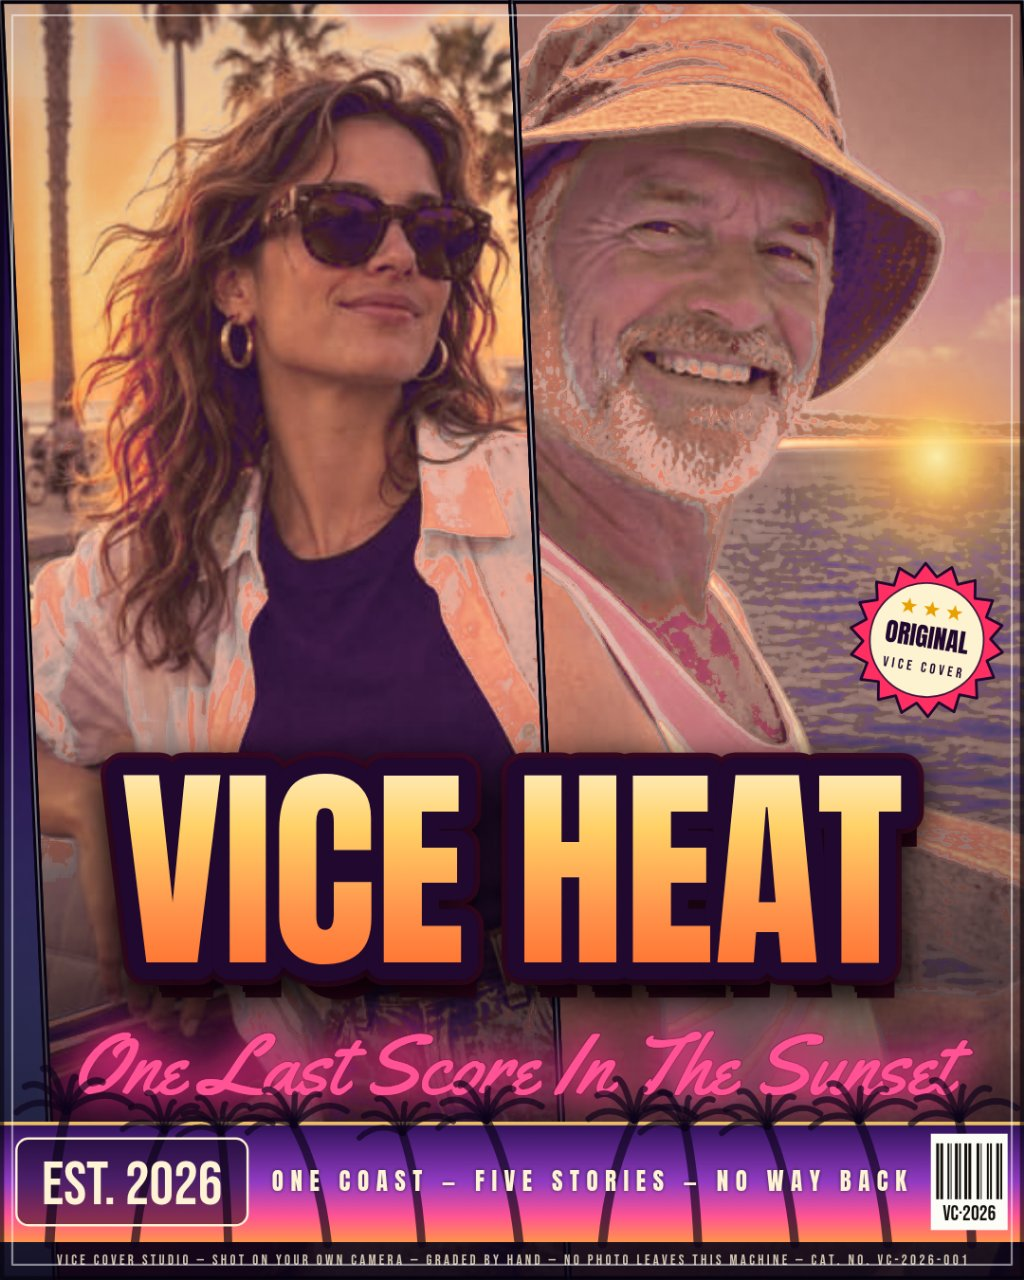
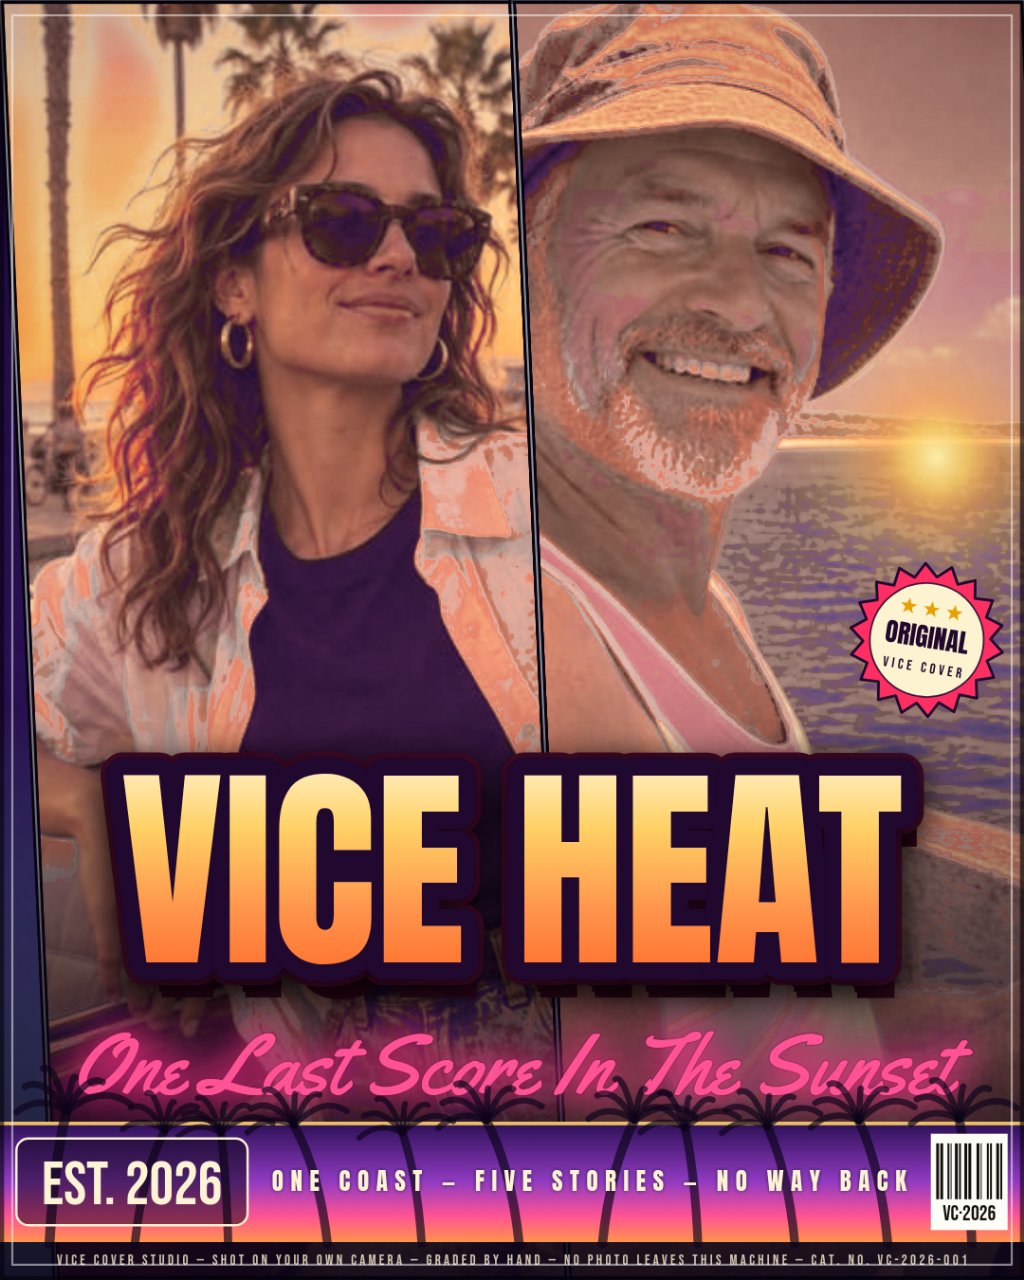
Round 23: skin-safe grade ramp for the Duo portrait

diff --git a/app/src/poster.js b/app/src/poster.js
@@ -138,7 +138,35 @@ export const GRADES = {
     // green sits above their blue everywhere — so no other subject's
     // skin moves; saturated props (the red dress, the convertible)
     // fall outside the saturation band.
-    magentaTame: { angle: 0.85, target: 18 },
+    // Round 23 (`notch`): the tame's two fades manufacture the last
+    // defect. Measured stage by stage on the Duo pier panel, the ramp
+    // mix drags the fisherman's skin to hue 300–360 (68–89% of his
+    // saturated skin pixels at 330+). The tame rotates the moderate-
+    // saturation part home, but two populations escape: skin the
+    // detectors could not moderate takes the full saturation lift to
+    // 0.62–0.78, past the tame's saturation fade, and is only half-
+    // rotated in transit into a pile at 354–358; and the sector's own
+    // 350–356 fade strands the rest in the same pile — past the fade,
+    // short of red — where the fringe tame cannot follow (its
+    // neighbourhood gate stands down on smooth skin fields, by
+    // design). In the round-22 render, 80–99% of every skin region's
+    // surviving magenta-sector pixels sit in that pile: the mottle
+    // the micro judge failed on the portrait's face, neck and chest.
+    // The notch arm is the tame's skin override: for pixels the
+    // SOURCE detector read as skin it restores the tame's full sector
+    // weight (rising 280–305 like the tame itself, no 350–356 fade)
+    // under a wider saturation band (fade 0.62–0.78), still fading
+    // out at 357.5–359.5 so skin that natively sits at 359 — the
+    // marina subject's cheek — keeps the round-13 protection. The
+    // detector speaks with three voices (see gradedPanelCanvas): the
+    // lit-skin test, a shaded companion, and a near-neutral test for
+    // the deepest shade skin, whose red still holds at or above its
+    // green where blue-shadowed cloth turns green-led. Non-skin never
+    // qualifies (sea, sky and signage fail every voice), and mean-
+    // measure renders skip the arm like they skip the fringe tame,
+    // so the harmonize gains — and with them every non-skin pixel of
+    // every panel — stay exactly where round 22 put them.
+    magentaTame: { angle: 0.85, target: 18, notch: [280, 305, 357.5, 359.5] },
     // Round 14 (`fringeTame`): the magenta tame above cleared the
     // 280–350 sector, but the round-13 micro judge still failed the
     // pier fisherman's beard: measured on the export, a large share
@@ -1147,6 +1175,32 @@ export function gradedPanelCanvas(shape, photo, gradeKey, wb = null, meanMeasure
         }
         let mixP = mix;
         let satP = eSat;
+        // The source pixel's skin weight, kept for the magenta tame's
+        // notch arm below (round 23): that arm may only touch pixels
+        // the detector read as skin before the ramp repainted them.
+        // Two companions feed the arm beside the main test. The
+        // shaded test (the white-balance shield's pink-lit test,
+        // moved to the source pixel) covers skin that rides blue so
+        // high its red-blue gap is ~0.04 of full scale, under the main
+        // test's 0.06–0.16 ramp; its value ceiling (0.62–0.75) keeps
+        // it off the bright surfaces that share the shaded hue
+        // family — the singlet's blue-shadowed cloth (value ~0.87)
+        // and the marina subject's brighter shaded cheek. The neutral
+        // test covers the deepest shade, where the chest's skin is
+        // near-neutral altogether (saturation 0.09–0.27, red level
+        // with blue): no per-pixel skin test can see it, but it still
+        // reads as skin against the cloth beside it — shaded skin
+        // keeps red at or above green, while the singlet's blue
+        // shadow is green-led and fails, and its value ceiling
+        // (0.66–0.78) keeps it off sunlit cloth and bright cheeks.
+        // Measured on the portrait chest's pile: main test 0.01,
+        // shaded test ~0.3, neutral test ~0.6 — against 0.96–0.99
+        // from the main test on the lit face and neck. The companions
+        // feed ONLY the notch arm: the mix and saturation moderation
+        // below keep the round-22 detector exactly, so nothing
+        // outside the arm's hue window changes by a single level.
+        let skinW = 0;
+        let notchW = 0;
         if (skinOn) {
           const mx = Math.max(r, g, b);
           const mn = Math.min(r, g, b);
@@ -1158,7 +1212,45 @@ export function gradedPanelCanvas(shape, photo, gradeKey, wb = null, meanMeasure
               * (1 - smoothstep(tameRgHi[0], tameRgHi[1], (r - g) / 255))
               * (1 - smoothstep(tameBright[0], tameBright[1], mx / 255))
               * smoothstep(30, 70, mx);
+            const shadeW = smoothstep(0.05, 0.14, sat) * (1 - smoothstep(0.72, 0.87, sat))
+              * smoothstep(0, 0.05, (r - b) / 255)
+              * (1 - smoothstep(0.52, 0.67, (r - g) / 255))
+              * (1 - smoothstep(0.62, 0.75, mx / 255))
+              * smoothstep(28, 64, mx);
+            notchW = Math.max(wgt, shadeW);
+            // The arm's own, stricter read of the same two voices
+            // (round 23): the rotation it drives is a far bigger move
+            // than the mix moderation above, so its gate is cut to
+            // skin's actual envelope — saturation ceilings at
+            // 0.40–0.50 (lit) and 0.45–0.60 (shaded) leave hair,
+            // saturated cloth, car paint and signage outside, and a
+            // value ceiling at 0.80–0.88 leaves the bright sunset
+            // sky outside. The fisherman's skin (saturation ≤ ~0.45,
+            // value ≤ ~0.84 even lit) keeps the weight it needs: at
+            // the pile's short arc a partial weight still rotates
+            // home. Only notchW is recomputed; skinW — and with it
+            // the round-22 moderation and shield — is untouched.
+            const armW = smoothstep(0.08, 0.2, sat) * (1 - smoothstep(0.4, 0.5, sat))
+              * smoothstep(0.06, 0.16, (r - b) / 255)
+              * (1 - smoothstep(tameRgHi[0], tameRgHi[1], (r - g) / 255))
+              * (1 - smoothstep(0.8, 0.88, mx / 255))
+              * smoothstep(30, 70, mx);
+            const armShadeW = smoothstep(0.05, 0.14, sat) * (1 - smoothstep(0.45, 0.6, sat))
+              * smoothstep(0, 0.05, (r - b) / 255)
+              * (1 - smoothstep(0.52, 0.67, (r - g) / 255))
+              * (1 - smoothstep(0.62, 0.75, mx / 255))
+              * smoothstep(28, 64, mx);
+            notchW = Math.max(armW, armShadeW);
           }
+          if (mx > 40) {
+            const sat = (mx - mn) / mx;
+            const neutralW = smoothstep(0, 0.04, (r - g) / 255)
+              * (1 - smoothstep(0.22, 0.32, sat))
+              * (1 - smoothstep(0.66, 0.78, mx / 255))
+              * smoothstep(28, 64, mx);
+            if (neutralW > notchW) notchW = neutralW;
+          }
+          skinW = wgt;
           if (wgt > 0) {
             mixP = mix * (1 - tameMix * wgt);
             satP = 1 + (eSat - 1) * (1 - tameSat * wgt);
@@ -1259,16 +1351,44 @@ export function gradedPanelCanvas(shape, photo, gradeKey, wb = null, meanMeasure
             else hue = 60 * ((nb - nr) / d + 2);
             if (hue < 0) hue += 360;
             if (hue >= 280) {
-              let mw = smoothstep(280, 305, hue)
-                * (1 - smoothstep(350, 356, hue))
-                * smoothstep(0.1, 0.2, sat) * (1 - smoothstep(0.5, 0.62, sat))
+              // Blue-led pixels are the panel's shade and sky far more
+              // often than its skin: they rotate at reduced weight.
+              const satBand = smoothstep(0.1, 0.2, sat) * (1 - smoothstep(0.5, 0.62, sat));
+              const gates = satBand
                 * smoothstep(0.03, 0.1, (nr - ng) / 255)
                 * (1 - smoothstep(0.55, 0.7, (nr - ng) / 255))
                 * smoothstep(40, 80, mx) * (1 - smoothstep(0.94, 0.99, mx / 255))
-                * smoothstep(0.86, 0.98, nr / mx);
-              // Blue-led pixels are the panel's shade and sky far more
-              // often than its skin: they rotate at reduced weight.
-              if (mx === nb) mw *= 0.6;
+                * smoothstep(0.86, 0.98, nr / mx)
+                * (mx === nb ? 0.6 : 1);
+              let mw = smoothstep(280, 305, hue)
+                * (1 - smoothstep(350, 356, hue))
+                * gates;
+              // The notch arm (round 23, see the grade's own note):
+              // source-detected skin takes the tame's full sector
+              // weight without the 350–356 fade, so the half-rotated
+              // pile at 354–358 rotates home with the rest of the
+              // sector. The arm reads the saturation band wider than
+              // the tame (fade 0.62–0.78, not 0.5–0.62): the chest's
+              // pile is manufactured in transit — pixels the detectors
+              // could not moderate take the full saturation lift to
+              // 0.62–0.78, where the tame's own band stands down — and
+              // the source voices are the arm's real gate: saturated
+              // props fail all three. Mean-measure renders skip the
+              // arm, like the fringe tame, so it cannot steer the
+              // harmonize gains.
+              if (!meanMeasure && magTame.notch && notchW > 0 && hue >= magTame.notch[0]) {
+                const n = magTame.notch;
+                const wideSat = smoothstep(0.1, 0.2, sat) * (1 - smoothstep(0.62, 0.78, sat));
+                const nw = notchW * smoothstep(n[0], n[1], hue)
+                  * (1 - smoothstep(n[2], n[3], hue))
+                  * wideSat
+                  * smoothstep(0.03, 0.1, (nr - ng) / 255)
+                  * (1 - smoothstep(0.55, 0.7, (nr - ng) / 255))
+                  * smoothstep(40, 80, mx) * (1 - smoothstep(0.94, 0.99, mx / 255))
+                  * smoothstep(0.86, 0.98, nr / mx)
+                  * (mx === nb ? 0.6 : 1);
+                if (nw > mw) mw = nw;
+              }
               if (mw > 0) {
                 const nh0 = hue + ((360 - hue) + magTame.target) * magTame.angle * mw;
                 const nh = nh0 >= 360 ? nh0 - 360 : nh0;
